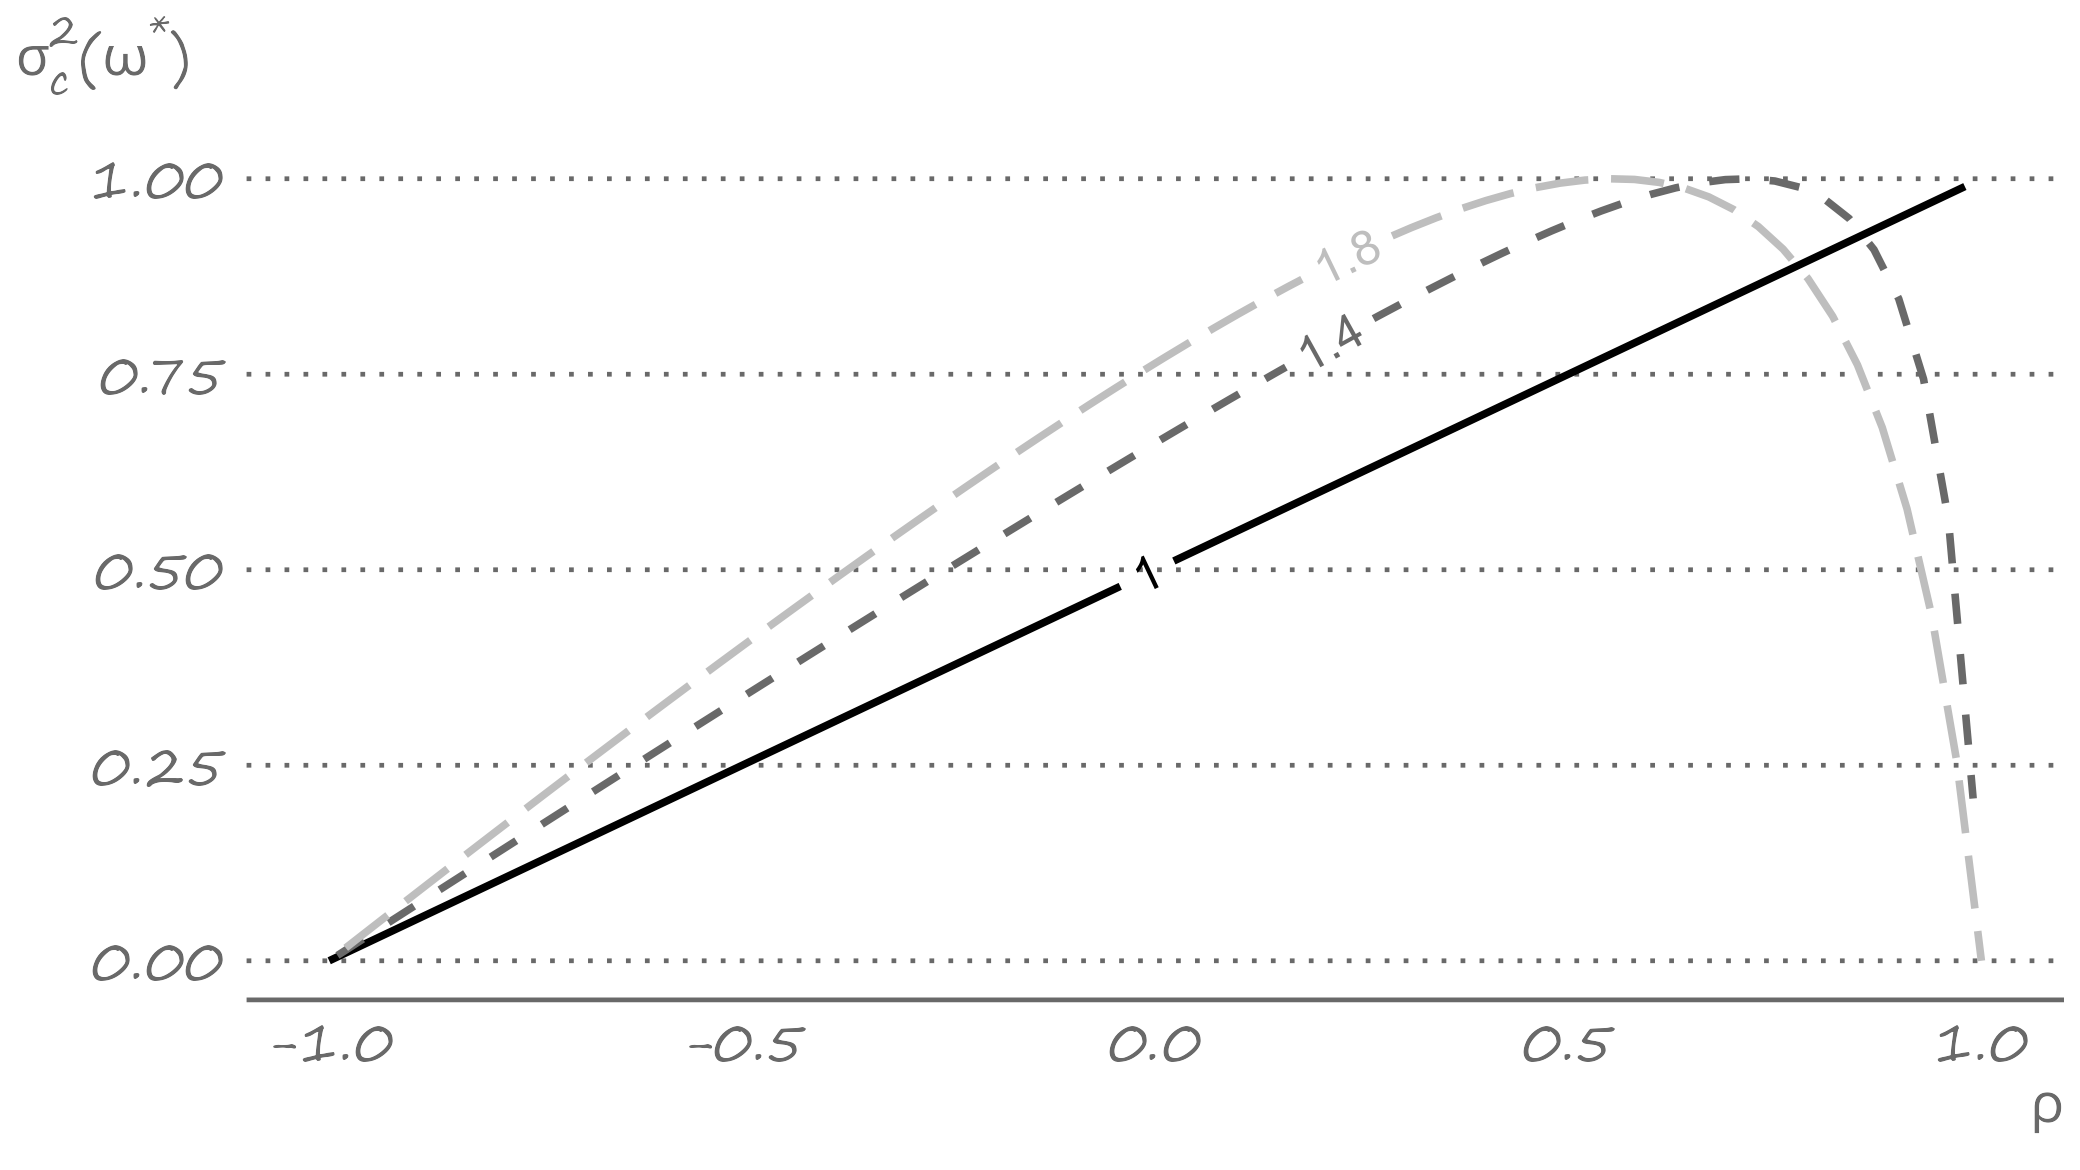
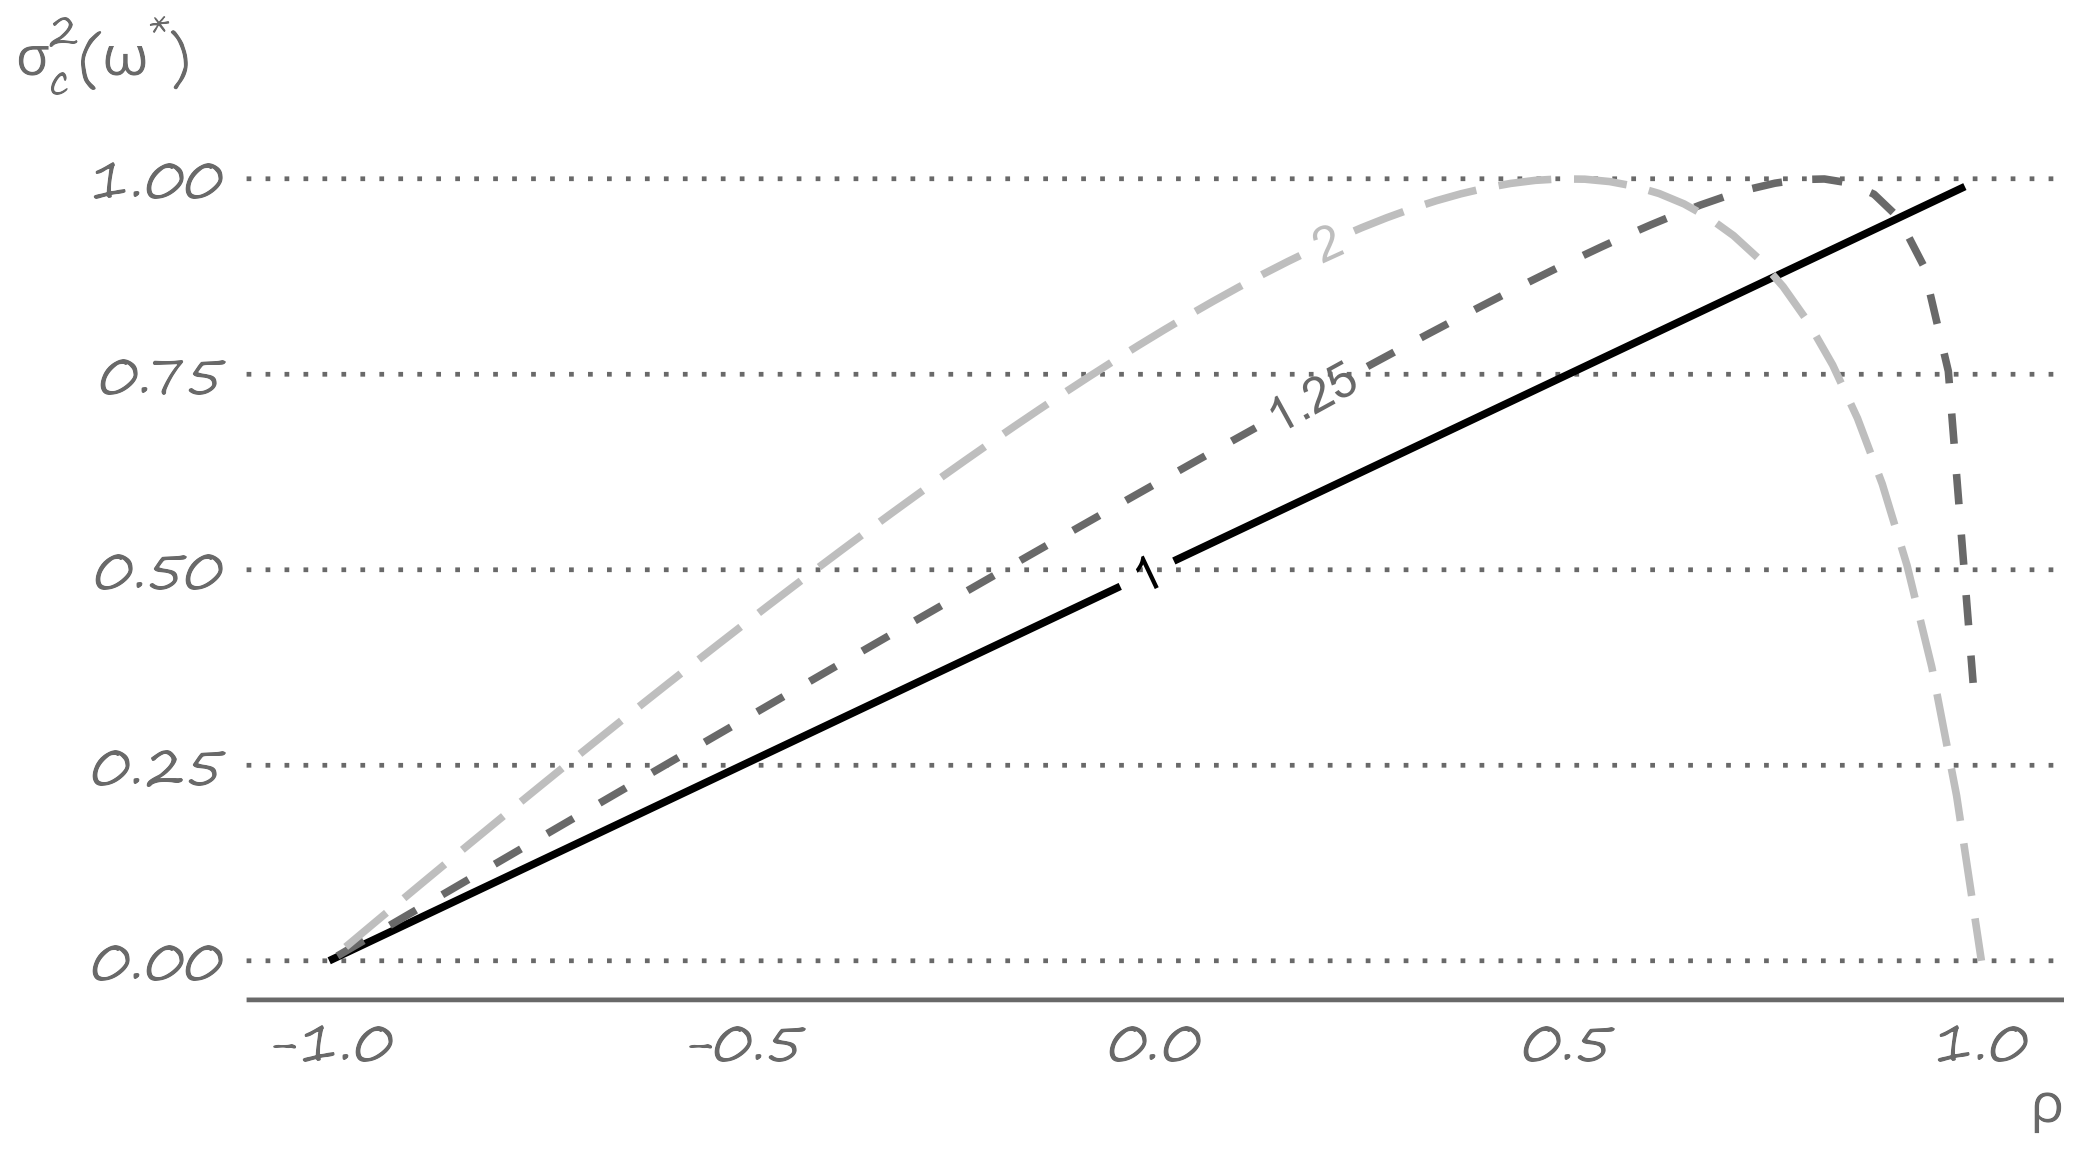
lec 3 update

diff --git a/03-Compare.html b/03-Compare.html
@@ -4,7 +4,7 @@
     <title>Forecasting for Economics and Business</title>
     <meta charset="utf-8" />
     <meta name="author" content="David Ubilava" />
-    <script src="libs/header-attrs-2.25/header-attrs.js"></script>
+    <script src="libs/header-attrs-2.22/header-attrs.js"></script>
     <link href="libs/remark-css-0.0.1/default.css" rel="stylesheet" />
     <link href="libs/remark-css-0.0.1/metropolis.css" rel="stylesheet" />
     <link href="libs/remark-css-0.0.1/metropolis-fonts.css" rel="stylesheet" />
@@ -293,13 +293,36 @@ The variance of a combined forecast error is: `$$\mathbb{V}\left(\hat{e}_{c,t+h|
 # The optimal weight
 
 .right-column[
-We can obtin an optimal weight, i.e., a weight that minimizes the variance of the combined forecast error, by taking the derivative of the variance of a combined forecast error, and equating it to zero. Solving this first order condition for `\(w\)` yields the optimal weight: `$$w^* = \frac{\sigma_i^2-\rho\sigma_i\sigma_j}{\sigma_i^2+\sigma_j^2-2\rho\sigma_i\sigma_j}$$`
+We can obtain an optimal weight, i.e., a weight that minimizes the variance of the combined forecast error, by taking the derivative of the variance of a combined forecast error, and equating it to zero. Solving this first order condition for `\(w\)` yields the optimal weight: `$$w^* = \frac{\sigma_i^2-\rho\sigma_i\sigma_j}{\sigma_i^2+\sigma_j^2-2\rho\sigma_i\sigma_j}$$`
+]
+
+---
+
+# The optimal weight for different `\(\rho\)` and `\(\sigma_j/\sigma_i\)`
+
+.right-figure[
+![](figures/lecture3/rho_weight.png)
 ]
 
 ---
 
 
-# At least as efficient as the most efficient forecast
+# The optimal weight for different `\(\rho\)` and `\(\sigma_j/\sigma_i\)`
+
+.right-column[
+When the two forecasts are equally accurate (or inaccurate), the optimal weight is `\(0.5\)`, regardless of the correlation between the forecasts. 
+
+The less accurate is a forecast, the smaller is the weight attached to it.
+
+When the forecasts are highly correlated, the negative optimal weight may be attached to the less accurate forecast. This happens when `\(\rho&gt;\sigma_i/\sigma_j\)`.
+
+When the forecasts are uncorrelated, the weights attached to the forecasts are inversely proportional to the variances of these forecasts: `$$w^* = \frac{\sigma_i^2}{\sigma_i^2+\sigma_j^2} = \frac{\sigma_j^{-2}}{\sigma_i^{-2}+\sigma_j^{-2}}$$`
+]
+
+---
+
+
+# Variance of the optimally combined forecast error
 
 .right-column[
 Substitute `\(w^*\)` in place of `\(w\)` in the formula for variance to obtain: `$$\mathbb{V}\left[\hat{e}_{c,t+1|t}(w^*)\right] = \sigma_c^2(w^*) = \frac{\sigma_i^2\sigma_j^2(1-\rho^2)}{\sigma_i^2+\sigma_j^2-2\rho\sigma_i\sigma_j}$$`
@@ -311,39 +334,21 @@ As it turns out: `\(\sigma_c^2(w^*) \leq \min\{\sigma_i^2,\sigma_j^2\}\)`. That 
 ---
 
 
-# Combining equally accurate forecasts
+# Variance for different `\(\rho\)` and `\(\sigma_j/\sigma_i\)`
 
-.right-column[
-*Assumption*: `\(\sigma_i = \sigma_j = \sigma\)`.
-
-Suppose the individual forecasts are equally accurate, then the combined forecast error variance reduces to: `$$\sigma_c^2(w^*) = \frac{\sigma^2(1+\rho)}{2} \leq \sigma^2$$`
-
-The equation shows there are diversification gains even when the forecasts are equally accurate (unless the forecasts are perfectly correlated, in which case there are no gains from combination).
+.right-figure[
+![](figures/lecture3/rho_variance.png)
 ]
 
 ---
 
 
-# Combining uncorrelated forecasts
+# Variance for different `\(\rho\)` and `\(\sigma_j/\sigma_i\)`
 
 .right-column[
-*Assumption*: `\(\rho=0\)`.
+Generally, the less correlated (or, especially the more negatively correlated) are the forecasts, the more accurate is the combined forecast.
 
-Suppose the forecast errors are uncorrelated, then the sample estimator of `\(w^*\)` is given by: `$$w^* = \frac{\sigma_i^2}{\sigma_i^2+\sigma_j^2} = \frac{\sigma_j^{-2}}{\sigma_i^{-2}+\sigma_j^{-2}}$$`
-
-Thus, the weights attached to forecasts are inversely proportional to the variance of these forecasts.
-]
-
----
-
-
-# Combining equally accurate uncorrelated forecasts
-
-.right-column[
-*Assumption*: `\(\sigma_i = \sigma_j = \sigma\)` and `\(\rho=0\)`.
-
-Suppose the individual forecasts are equally accurate and the forecast errors are uncorrelated, then the sample estimator of `\(w^*\)` reduces to `\(0.5\)`, resulting in the equal-weighted forecast combination: `$$\hat{y}_{c,t+h|t} = 0.5\hat{y}_{i,t+h|t} + 0.5\hat{y}_{j,t+h|t}$$`
-
+When the forecasts are equally accurate (or inaccurate), the equal-weight combination of the forecasts will almost always make things better (and never make things worse): `$$\sigma_c^2(w^*) = \frac{\sigma^2(1+\rho)}{2} \leq \sigma^2$$` 
 ]
 
 ---
